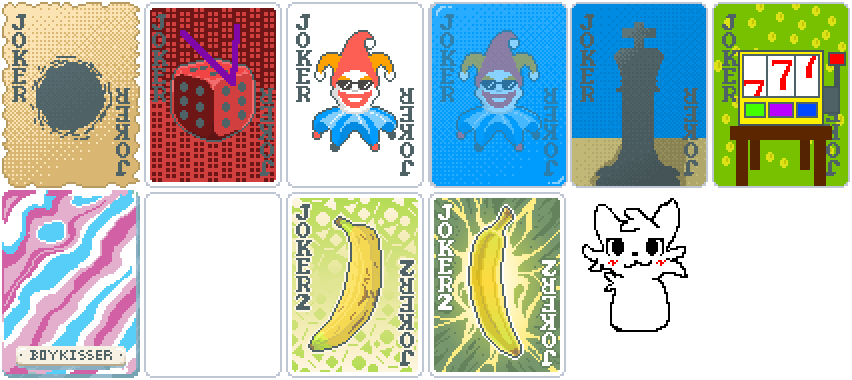
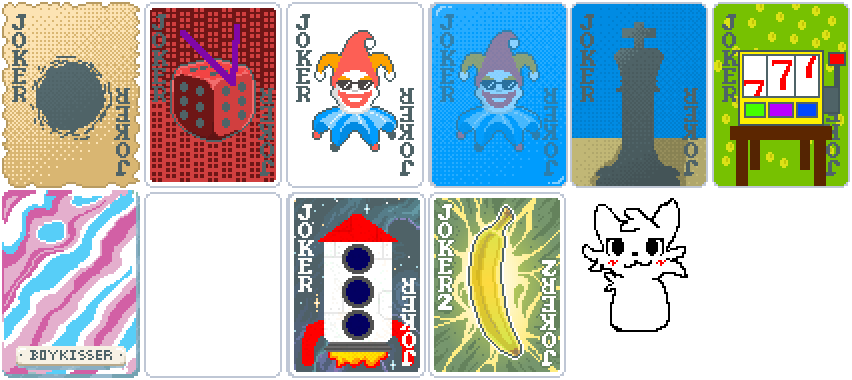
1.0.2

Changed region(s): [[0.3357, 0.5211, 0.5188, 0.9842]]

diff --git a/README.md b/README.md
@@ -2,7 +2,8 @@
 This mod adds a few jokers made by me and a few friends over the span of a few days
 
 ## CHANGELOG
-### Added
+### 1.1
+Added
  - Boykisser: adds a kiss seal to a king or jack
  - Cool Jimbo: +8 mult
  - Cooler Jimbo: +8 mult unless cool jimbo is on the left then it does x4 mult
@@ -12,3 +13,8 @@ This mod adds a few jokers made by me and a few friends over the span of a few d
  - Royal Strategy: Every played king gives X1.5 mult 
  -   :  
  - Kiss Seal: retriggers once and gives +2 mult
+
+### 1.2
+Added
+- SIS Ship: +1 mult each round with a cap of 30
+reworked  
